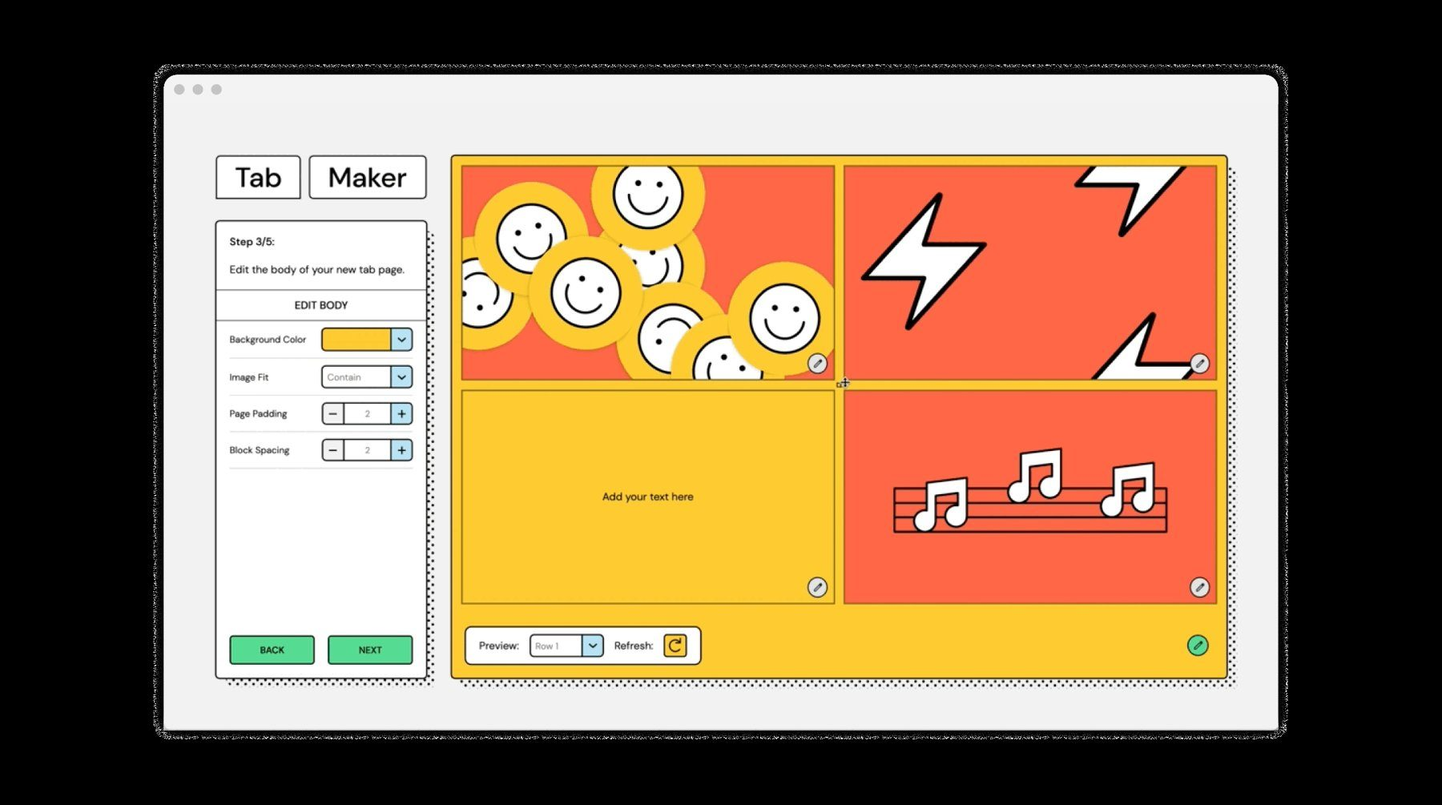
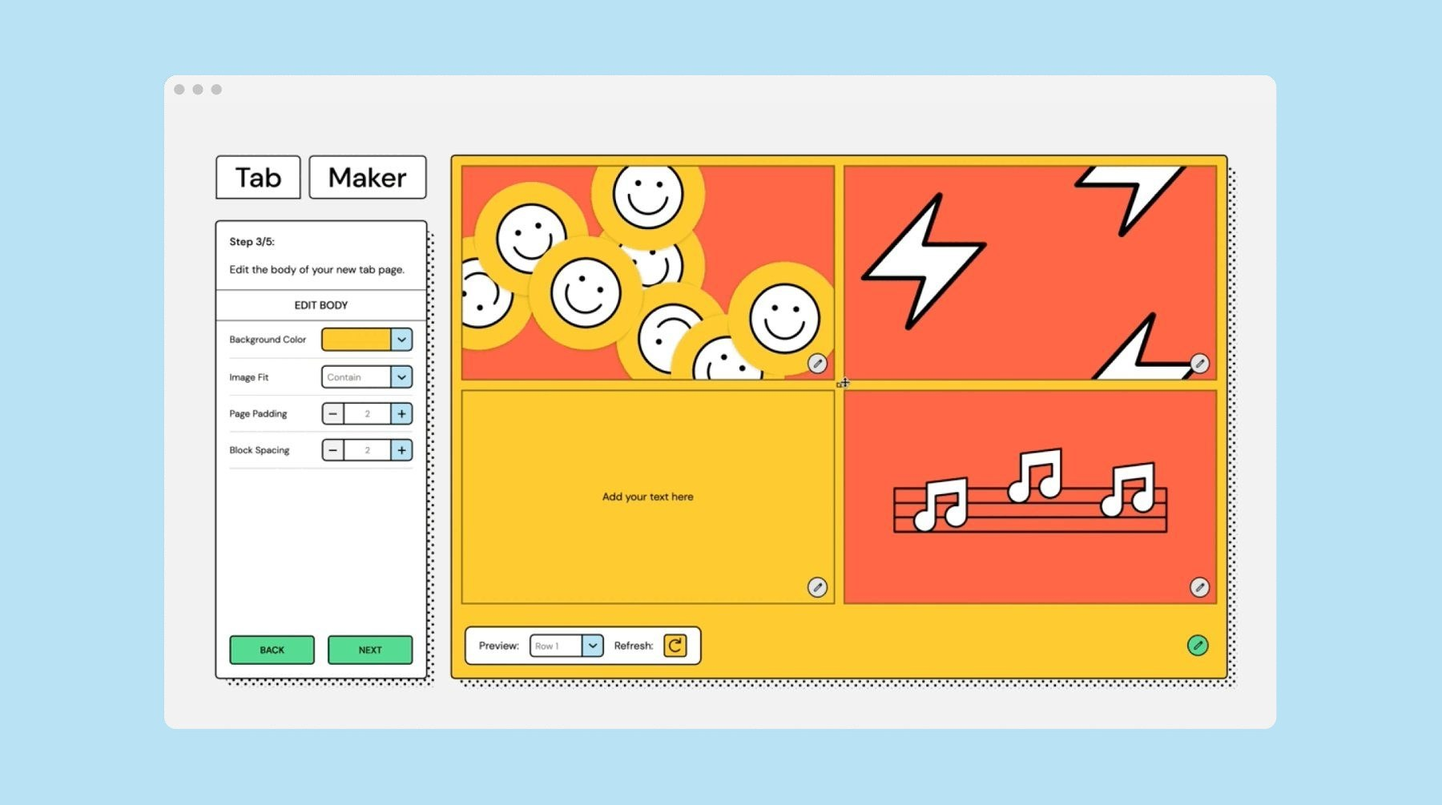
Add files via upload

diff --git a/assets/css/site.css b/assets/css/site.css
@@ -21,13 +21,21 @@ img{max-width:100%}
 .label{font-size:13px}
 .wrap{padding:0 var(--gutter)}
 
+/* ---------- Home: top bar (matches the project pages) ---------- */
+.topbar{display:flex;justify-content:space-between;align-items:center;gap:16px;padding-top:28px}
+.topbar .title{font-size:15px;font-weight:500;letter-spacing:.02em;text-transform:uppercase}
+.topbar .mid{font-size:11px}
+.caps-row{display:flex;gap:28px}
+
 /* ---------- Home: hero ---------- */
-.hero{position:relative;display:flex;flex-wrap:wrap;gap:24px 40px;align-items:flex-start;padding-top:32px;min-height:1020px}
-.hero h1{flex:1 1 560px;margin:0;max-width:1180px;font-size:clamp(34px,4.2vw,64px);font-weight:400;letter-spacing:-.025em;line-height:1.04}
-.hero .name{display:inline-block;vertical-align:.55em;margin-right:4.2em;font-size:13px;line-height:1.2;letter-spacing:0}
+.hero{position:relative;display:flex;flex-wrap:wrap;gap:24px 40px;align-items:flex-start;padding-top:56px;min-height:max(1000px,70vw)}
+.hero h1{flex:1 1 560px;margin:0;max-width:1180px;font-size:clamp(34px,4.4vw,150px);font-weight:400;letter-spacing:-.025em;line-height:1.04}
+@media (min-width:1100px){.hero h1{max-width:var(--stmt,75%)}}
+.ks{font-size:15px;font-weight:500;letter-spacing:.02em;text-decoration:none;color:var(--ink)}
+.hero .name{display:inline-block;vertical-align:.55em;margin-right:4.2em;font-size:clamp(13px,.9vw,20px);line-height:1.2;letter-spacing:0}
 .hero nav{flex:0 0 auto;display:flex;gap:20px;align-items:center;padding-top:12px}
 .dot{display:block;width:22px;height:22px;border-radius:50%;background:var(--ink)}
-.dot-link{display:flex;align-items:center;justify-content:center;width:44px;height:44px;margin:-11px}
+.dot-link{display:flex;align-items:center;justify-content:center;width:44px;height:44px;margin:-11px;align-self:center}
 .hero-meta{position:absolute;left:0;right:0;bottom:20px;z-index:3;display:flex;flex-wrap:wrap;justify-content:space-between;gap:12px;color:var(--muted)}
 .tidy{border-bottom:1px solid currentColor;min-height:24px}
 .tidy:hover{color:var(--ink)}
@@ -50,7 +58,7 @@ img{max-width:100%}
 .row .w{flex:0 0 200px;font-family:var(--serif);font-size:13px;color:var(--muted)}
 .row .y-m{display:none}
 .row .y{flex:0 0 48px;font-size:13px;color:var(--muted);text-align:right}
-.hover-print{position:fixed;left:0;top:0;width:220px;z-index:50;pointer-events:none;background:#FBFAF7;padding:8px;box-shadow:0 1px 2px rgba(40,32,20,.16),0 12px 26px rgba(40,32,20,.16);opacity:0;transition:opacity .15s ease}
+.hover-print{position:fixed;left:0;top:0;width:220px;z-index:50;pointer-events:none;box-shadow:0 1px 2px rgba(40,32,20,.16),0 12px 26px rgba(40,32,20,.18);opacity:0;transition:opacity .15s ease}
 .hover-print.on{opacity:1}
 .hover-print img{display:block;width:100%;aspect-ratio:4/5;object-fit:cover}
 
@@ -74,13 +82,20 @@ img{max-width:100%}
 /* ---------- Project page ---------- */
 body.project{height:100vh;height:100dvh;overflow:hidden}
 .p{position:relative;height:100vh;height:100dvh;display:flex;flex-direction:column;overflow:hidden}
-.p-head{display:flex;justify-content:space-between;align-items:baseline;gap:16px;padding:28px var(--gutter) 0}
-.p-head h1{margin:0;font-size:15px;font-weight:500;letter-spacing:.02em;text-transform:uppercase}
+.p-head{display:grid;grid-template-columns:1fr auto 1fr;align-items:baseline;gap:16px;padding:28px var(--gutter) 0}
+.p-head .info{justify-self:end}
+.p-head h1{margin:0;text-align:center;font-family:var(--serif);font-size:15px;font-weight:400;letter-spacing:0}
 .caps{font-size:12px;font-weight:500;letter-spacing:.04em;text-transform:uppercase;min-height:44px;display:inline-flex;align-items:center}
 .p-summary{display:none}
 .p-stage{flex:1 1 auto;min-height:0;display:flex;align-items:center;justify-content:center;padding:24px clamp(20px,6vw,120px);cursor:e-resize;width:100%}
 .p-stage img{display:none;max-width:100%;max-height:100%;object-fit:contain}
 .p-stage img.on{display:block}
+.p-stage{container-type:size}
+.p-stage .vid{display:none;width:min(100cqw,calc(100cqh * 16 / 9));aspect-ratio:16/9;background:#000;cursor:auto}
+.p-stage .vid.on{display:block}
+.p-stage .vid iframe{display:block;width:100%;height:100%;border:0}
+.single .p-nav,.single .p-dots{visibility:hidden}
+.single .p-stage{cursor:auto}
 .p-foot{display:flex;flex-wrap:wrap;justify-content:space-between;align-items:center;gap:12px 24px;padding:0 var(--gutter) 20px;font-family:var(--serif);font-size:11px}
 .p-foot .cap{flex:1 1 320px;color:var(--muted)}
 .p-nav{display:flex;gap:20px;align-items:center;font-variant-numeric:tabular-nums}
@@ -107,11 +122,12 @@ body.project{height:100vh;height:100dvh;overflow:hidden}
 /* ---------- Phones ---------- */
 @media (max-width:700px){
   .wrap{padding:0 20px}
-  .hero{display:block;padding-top:8px;min-height:860px}
-  .hero nav{position:absolute;top:8px;left:0;right:0;justify-content:space-between;padding-top:0}
-  .hero nav .links{display:flex;gap:20px}
-  .hero nav a{padding:12px 0}
-  .hero h1{padding-top:72px;font-size:30px;line-height:1.1}
+  .topbar{padding-top:8px;align-items:center}
+  .topbar .mid{display:none}
+  .topbar .title{font-size:13px}
+  .caps-row{gap:16px}
+  .hero{display:block;padding-top:32px;min-height:870px}
+  .hero h1{font-size:30px;line-height:1.1}
   .hero .name{vertical-align:.35em;margin-right:2.4em;font-size:12px}
   .hero-meta{flex-direction:column;gap:4px;bottom:20px}
   .objects{left:-20px;right:-20px;overflow:hidden}
@@ -133,8 +149,10 @@ body.project{height:100vh;height:100dvh;overflow:hidden}
   .colophon{flex-direction:column;gap:4px;margin-top:64px}
 
   .p-head{padding:8px 20px 0;align-items:center}
-  .p-head h1,.p-head .info{display:none}
-  .p-head .back-m{display:inline-flex}
+  .p-head{grid-template-columns:auto 1fr}
+  .p-head h1{display:none}
+  .p-head .info{display:none}
+  .ks{font-size:13px}
   .p-summary{display:block;padding:16px 20px 0}
   .p-summary .t{margin:0;font-size:34px;font-weight:500;letter-spacing:-.03em;line-height:1}
   .p-summary p{margin:10px 0 0;font-size:13px;line-height:1.45;color:var(--ink-2)}

diff --git a/tab-maker/index.html b/tab-maker/index.html
@@ -17,19 +17,18 @@
 <body class="project">
 <div class="p" style="--panel:#D9D6CF">
 <header class="p-head">
-<a class="caps back-m" href="../#work">← Back</a>
+<a class="ks" href="../" aria-label="Kate Strudwick, home">K.S.</a>
 <h1>Tab Maker</h1>
-<span class="detail muted" style="font-size:11px">Project 07 of 09</span>
 <button type="button" class="caps info" data-toggle-panel data-label="Info +" aria-expanded="false" aria-controls="panel">Info +</button>
 </header>
 <div class="p-summary"><p class="t">Tab Maker</p><p>A no-code tool for building Chrome new-tab extensions from a Google Sheet.</p></div>
-<button type="button" class="p-stage" aria-label="Next image"><img src="../assets/img/tab-maker/01.gif" alt="A new tab page showing an illustrated portrait by a creative of colour" data-caption="The original extension: work by creatives of colour on every new tab." width=1600 height=900><img src="../assets/img/tab-maker/02.gif" alt="Animated tour of the Tab Maker website" data-caption="The Tab Maker website." loading="lazy"><img src="../assets/img/tab-maker/03.jpg" alt="The no-code editor with a template preview" data-caption="The no-code editor: choose a template, link a Google Sheet." loading="lazy"><img src="../assets/img/tab-maker/04.gif" alt="The launch page with the Tab Maker film" data-caption="The launch page and film." loading="lazy"><img src="../assets/img/tab-maker/05.jpg" alt="MoMA new tab page showing a Mondrian painting" data-caption="MoMA’s new tab extension, built with Tab Maker." loading="lazy"><img src="../assets/img/tab-maker/06.jpg" alt="Extensions made with Tab Maker by MoMA and others" data-caption="Observing people using Tab Maker." loading="lazy"><img src="../assets/img/tab-maker/07.jpg" alt="Three persona cards: the recruiter, the advocate and the creative" data-caption="Personas: the recruiter, the advocate and the creative." loading="lazy"><img src="../assets/img/tab-maker/08.jpg" alt="Flow diagram comparing the process before and after Tab Maker" data-caption="Before and after: removing the need to code." loading="lazy"><img src="../assets/img/tab-maker/09.jpg" alt="Two new tabs made from templates, one in Spanish" data-caption="Templates in use, in any language." loading="lazy"><img src="../assets/img/tab-maker/10.jpg" alt="Collage of research notes and early ideas" data-caption="Behind the scenes: research and early ideas." loading="lazy"></button>
+<div class="p-stage" aria-label="Gallery"><div class="vid" data-caption="The Tab Maker film."><iframe data-src="https://www.youtube-nocookie.com/embed/NWKOkf_JkEI?rel=0&amp;modestbranding=1" title="Tab Maker film (YouTube)" allow="autoplay; fullscreen; picture-in-picture; encrypted-media" allowfullscreen></iframe></div><img src="../assets/img/tab-maker/01.gif" alt="A new tab page showing an illustrated portrait by a creative of colour" data-caption="The original extension: work by creatives of colour on every new tab." width=1600 height=900><img src="../assets/img/tab-maker/02.gif" alt="Animated tour of the Tab Maker website" data-caption="The Tab Maker website." loading="lazy"><img src="../assets/img/tab-maker/03.jpg" alt="The no-code editor with a template preview" data-caption="The no-code editor: choose a template, link a Google Sheet." loading="lazy"><img src="../assets/img/tab-maker/04.gif" alt="The launch page with the Tab Maker film" data-caption="The launch page and film." loading="lazy"><img src="../assets/img/tab-maker/05.jpg" alt="MoMA new tab page showing a Mondrian painting" data-caption="MoMA’s new tab extension, built with Tab Maker." loading="lazy"><img src="../assets/img/tab-maker/06.jpg" alt="Extensions made with Tab Maker by MoMA and others" data-caption="Observing people using Tab Maker." loading="lazy"><img src="../assets/img/tab-maker/07.jpg" alt="Three persona cards: the recruiter, the advocate and the creative" data-caption="Personas: the recruiter, the advocate and the creative." loading="lazy"><img src="../assets/img/tab-maker/08.jpg" alt="Flow diagram comparing the process before and after Tab Maker" data-caption="Before and after: removing the need to code." loading="lazy"><img src="../assets/img/tab-maker/09.jpg" alt="Two new tabs made from templates, one in Spanish" data-caption="Templates in use, in any language." loading="lazy"><img src="../assets/img/tab-maker/10.jpg" alt="Collage of research notes and early ideas" data-caption="Behind the scenes: research and early ideas." loading="lazy"></div>
 <div class="p-foot">
 <a class="caps back" href="../#work">Back</a>
 <span class="cap" aria-live="polite"></span>
 <div class="p-nav"><button type="button" class="prev" aria-label="Previous image">←</button><span class="count"></span><button type="button" class="nextimg" aria-label="Next image">→</button></div>
 </div>
-<div class="p-dots" aria-hidden="true"><span></span><span></span><span></span><span></span><span></span><span></span><span></span><span></span><span></span><span></span></div>
+<div class="p-dots" aria-hidden="true"><span></span><span></span><span></span><span></span><span></span><span></span><span></span><span></span><span></span><span></span><span></span></div>
 <button type="button" class="p-about" data-toggle-panel aria-expanded="false" aria-controls="panel"><span>About this project</span><span>+</span></button>
 <div class="scrim" aria-hidden="true"></div>
 <aside class="p-panel" id="panel" aria-hidden="true" aria-label="About Tab Maker">

diff --git a/assets/js/site.js b/assets/js/site.js
@@ -9,11 +9,12 @@
     var top = objs.length;
     var place = function () {
       var key = phone.matches ? 'mob' : 'desk';
+      var k = phone.matches ? 1 : Math.max(1, layer.offsetWidth / 1370); // grow with very wide screens
       objs.forEach(function (el, i) {
         var p = el.dataset[key].split(',').map(Number); // x%, y px, width px, rotation deg
         el.style.left = p[0] + '%';
-        el.style.top = p[1] + 'px';
-        el.style.width = phone.matches ? p[2] + 'px' : 'clamp(' + Math.round(p[2] * 0.6) + 'px, ' + (p[2] / 14.4).toFixed(2) + 'vw, ' + p[2] + 'px)';
+        el.style.top = Math.round(p[1] * k) + 'px';
+        el.style.width = phone.matches ? p[2] + 'px' : 'clamp(' + Math.round(p[2] * 0.6) + 'px, ' + (p[2] / 14.4).toFixed(2) + 'vw, ' + Math.round(p[2] * 1.9) + 'px)';
         el.style.zIndex = i + 1;
         el.querySelector('img').style.rotate = p[3] + 'deg';
         el.style.setProperty('--delay', (120 + i * 110) + 'ms');
@@ -21,6 +22,7 @@
     };
     place();
     if (phone.addEventListener) phone.addEventListener('change', place);
+    var rt; window.addEventListener('resize', function () { clearTimeout(rt); rt = setTimeout(place, 200); });
     var tidy = document.querySelector('.tidy');
     if (tidy) tidy.addEventListener('click', place);
 
@@ -74,7 +76,7 @@
   /* ---------- Project page: gallery + info panel ---------- */
   var p = document.querySelector('.p');
   if (p) {
-    var imgs = Array.prototype.slice.call(p.querySelectorAll('.p-stage img'));
+    var imgs = Array.prototype.slice.call(p.querySelectorAll('.p-stage > img, .p-stage > .vid'));
     var cap = p.querySelector('.cap');
     var count = p.querySelector('.count');
     var dots = Array.prototype.slice.call(p.querySelectorAll('.p-dots span'));
@@ -82,16 +84,21 @@
     var pad = function (x) { return (x < 10 ? '0' : '') + x; };
     var show = function (k) {
       i = (k + n) % n;
-      imgs.forEach(function (im, j) { im.classList.toggle('on', j === i); });
+      imgs.forEach(function (im, j) {
+        im.classList.toggle('on', j === i);
+        var fr = im.querySelector && im.querySelector('iframe');
+        if (fr) { if (j === i) { if (!fr.src) fr.src = fr.dataset.src; } else if (fr.src) { fr.removeAttribute('src'); } } // load when shown, stop when leaving
+      });
       dots.forEach(function (dt, j) { dt.classList.toggle('on', j === i); });
       cap.textContent = 'Fig. ' + pad(i + 1) + ': ' + imgs[i].dataset.caption;
       if (count) count.textContent = pad(i + 1) + ' / ' + pad(n);
       var nxt = imgs[(i + 1) % n]; if (nxt.loading === 'lazy') nxt.loading = 'eager';
+      if (n < 2) p.classList.add('single');
     };
     show(0);
     var stage = p.querySelector('.p-stage');
     var swiped = false;
-    stage.addEventListener('click', function () { if (!swiped) show(i + 1); swiped = false; });
+    stage.addEventListener('click', function (e) { if (e.target.closest('.vid')) return; if (!swiped) show(i + 1); swiped = false; });
     p.querySelector('.prev').addEventListener('click', function () { show(i - 1); });
     p.querySelector('.nextimg').addEventListener('click', function () { show(i + 1); });
     var tx = null;
@@ -125,4 +132,16 @@
       else if (e.key === 'Escape') setOpen(false);
     });
   }
+})();
+
+// Statement ends where the "Work" link starts
+(function () {
+  var w = document.getElementById('nav-work'), h = document.querySelector('.hero h1');
+  if (!w || !h) return;
+  function fit() {
+    var r = w.getBoundingClientRect().left - h.getBoundingClientRect().left;
+    h.style.setProperty('--stmt', Math.round(r) + 'px');
+  }
+  fit(); window.addEventListener('resize', fit);
+  if (document.fonts && document.fonts.ready) document.fonts.ready.then(fit);
 })();

diff --git a/cellul-air/index.html b/cellul-air/index.html
@@ -17,19 +17,18 @@
 <body class="project">
 <div class="p" style="--panel:#D3D9D4">
 <header class="p-head">
-<a class="caps back-m" href="../#work">← Back</a>
+<a class="ks" href="../" aria-label="Kate Strudwick, home">K.S.</a>
 <h1>Cellul—air</h1>
-<span class="detail muted" style="font-size:11px">Project 04 of 09</span>
 <button type="button" class="caps info" data-toggle-panel data-label="Info +" aria-expanded="false" aria-controls="panel">Info +</button>
 </header>
 <div class="p-summary"><p class="t">Cellul—air</p><p>Air-purifying bacteria brought out into public space.</p></div>
-<button type="button" class="p-stage" aria-label="Next image"><img src="../assets/img/cellul-air/01.jpg" alt="Cellul—air modules installed along a London Underground tunnel" data-caption="Future vision: modules lining a Bakerloo line passage." width=1400 height=921><img src="../assets/img/cellul-air/02.jpg" alt="Close-up of glowing bacteria-filled dishes" data-caption="Living modules, lit from behind." loading="lazy"><img src="../assets/img/cellul-air/03.jpg" alt="A visitor examining the modules at an exhibition" data-caption="On show, inviting a closer look at the air we breathe." loading="lazy"><img src="../assets/img/cellul-air/04.jpg" alt="Kate holding a petri dish of bacteria in the lab" data-caption="Growing air-purifying bacteria in the lab." loading="lazy"><img src="../assets/img/cellul-air/05.jpg" alt="Cluster of purple modules in a concrete gallery stairwell" data-caption="Future vision: a cluster in a public stairwell." loading="lazy"></button>
+<div class="p-stage" aria-label="Gallery"><div class="vid" data-caption="The Cellul—air film."><iframe data-src="https://player.vimeo.com/video/312257176?dnt=1&amp;title=0&amp;byline=0&amp;portrait=0" title="Cellul—air film (Vimeo)" allow="autoplay; fullscreen; picture-in-picture; encrypted-media" allowfullscreen></iframe></div><img src="../assets/img/cellul-air/01.jpg" alt="Cellul—air modules installed along a London Underground tunnel" data-caption="Future vision: modules lining a Bakerloo line passage." width=1400 height=921><img src="../assets/img/cellul-air/02.jpg" alt="Close-up of glowing bacteria-filled dishes" data-caption="Living modules, lit from behind." loading="lazy"><img src="../assets/img/cellul-air/03.jpg" alt="A visitor examining the modules at an exhibition" data-caption="On show, inviting a closer look at the air we breathe." loading="lazy"><img src="../assets/img/cellul-air/04.jpg" alt="Kate holding a petri dish of bacteria in the lab" data-caption="Growing air-purifying bacteria in the lab." loading="lazy"><img src="../assets/img/cellul-air/05.jpg" alt="Cluster of purple modules in a concrete gallery stairwell" data-caption="Future vision: a cluster in a public stairwell." loading="lazy"></div>
 <div class="p-foot">
 <a class="caps back" href="../#work">Back</a>
 <span class="cap" aria-live="polite"></span>
 <div class="p-nav"><button type="button" class="prev" aria-label="Previous image">←</button><span class="count"></span><button type="button" class="nextimg" aria-label="Next image">→</button></div>
 </div>
-<div class="p-dots" aria-hidden="true"><span></span><span></span><span></span><span></span><span></span></div>
+<div class="p-dots" aria-hidden="true"><span></span><span></span><span></span><span></span><span></span><span></span></div>
 <button type="button" class="p-about" data-toggle-panel aria-expanded="false" aria-controls="panel"><span>About this project</span><span>+</span></button>
 <div class="scrim" aria-hidden="true"></div>
 <aside class="p-panel" id="panel" aria-hidden="true" aria-label="About Cellul—air">

diff --git a/the-common-lab/index.html b/the-common-lab/index.html
@@ -17,19 +17,18 @@
 <body class="project">
 <div class="p" style="--panel:#ECD8CB">
 <header class="p-head">
-<a class="caps back-m" href="../#work">← Back</a>
+<a class="ks" href="../" aria-label="Kate Strudwick, home">K.S.</a>
 <h1>The Common Lab</h1>
-<span class="detail muted" style="font-size:11px">Project 02 of 09</span>
 <button type="button" class="caps info" data-toggle-panel data-label="Info +" aria-expanded="false" aria-controls="panel">Info +</button>
 </header>
 <div class="p-summary"><p class="t">The Common Lab</p><p>A volunteer design studio offering free creative help for the common good.</p></div>
-<button type="button" class="p-stage" aria-label="Next image"><img src="../assets/img/the-common-lab/01.jpg" alt="The Common Lab homepage on a laptop in a softly lit room" data-caption="The Common Lab homepage: free creative help for the common good." width=1200 height=1500><img src="../assets/img/the-common-lab/02.jpg" alt="The Common Lab homepage on a laptop resting on a white floor" data-caption="A single hand-coded page, hosted on GitHub Pages." loading="lazy"><img src="../assets/img/the-common-lab/03.jpg" alt="Screenshot of The Common Lab homepage" data-caption="The wordmark, tagline and “say hi” envelope." loading="lazy"></button>
+<button type="button" class="p-stage" aria-label="Next image"><img src="../assets/img/the-common-lab/01.jpg" alt="The Common Lab homepage on a laptop in a softly lit room" data-caption="The Common Lab homepage: free creative help for the common good." width=1200 height=1500></button>
 <div class="p-foot">
 <a class="caps back" href="../#work">Back</a>
 <span class="cap" aria-live="polite"></span>
 <div class="p-nav"><button type="button" class="prev" aria-label="Previous image">←</button><span class="count"></span><button type="button" class="nextimg" aria-label="Next image">→</button></div>
 </div>
-<div class="p-dots" aria-hidden="true"><span></span><span></span><span></span></div>
+<div class="p-dots" aria-hidden="true"><span></span></div>
 <button type="button" class="p-about" data-toggle-panel aria-expanded="false" aria-controls="panel"><span>About this project</span><span>+</span></button>
 <div class="scrim" aria-hidden="true"></div>
 <aside class="p-panel" id="panel" aria-hidden="true" aria-label="About The Common Lab">

diff --git a/index.html b/index.html
@@ -17,9 +17,13 @@
 <body>
 <a class="skip" href="#work">Skip to work</a>
 <div class="wrap">
-<header class="hero">
+<header class="topbar">
+<a class="ks" href="./" aria-label="Kate Strudwick, home">K.S.</a>
+<span class="detail muted mid">Portfolio, Ed. 2026</span>
+<nav class="caps-row" aria-label="Main"><a class="caps" id="nav-work" href="#work">Work</a><a class="caps" href="#about">About</a><a class="caps" href="mailto:kate.j.strudwick@gmail.com">Contact</a></nav>
+</header>
+<section class="hero" aria-label="Introduction">
 <h1><span class="name">Kate<br>Strudwick</span>Designer working where technology meets human problems, from operating theatres and evidence lockers to AI products at Google. Careful research, physical prototypes, clear ideas.</h1>
-<nav class="detail" aria-label="Main"><span class="links"><a href="#work">Work</a> <a href="#about">About</a></span><a class="dot-link" href="mailto:kate.j.strudwick@gmail.com" aria-label="Email Kate"><span class="dot"></span></a></nav>
 <div class="objects" aria-label="A few things I love. Drag them around.">
 <div class="obj" data-desk="22.3,440,190,-12" data-mob="18.1,468,85,-12" title="The Sun tarot card"><img src="assets/objects/object-1.png" alt="The Sun tarot card" draggable="false"></div>
 <div class="obj" data-desk="34.3,376,240,8" data-mob="39.0,439,105,8" title="A red swimming costume"><img src="assets/objects/object-2.png" alt="A red swimming costume" draggable="false"></div>
@@ -32,7 +36,7 @@
 <span>A few things I love. Move them around, or <button type="button" class="tidy">tidy up</button></span>
 <span>San Francisco / London</span>
 </div>
-</header>
+</section>
 
 <main>
 <section id="work" class="work" aria-labelledby="work-h">

diff --git a/cardiac-stimulator/index.html b/cardiac-stimulator/index.html
@@ -17,9 +17,8 @@
 <body class="project">
 <div class="p" style="--panel:#E0D7D3">
 <header class="p-head">
-<a class="caps back-m" href="../#work">← Back</a>
+<a class="ks" href="../" aria-label="Kate Strudwick, home">K.S.</a>
 <h1>Cardiac Stimulator</h1>
-<span class="detail muted" style="font-size:11px">Project 09 of 09</span>
 <button type="button" class="caps info" data-toggle-panel data-label="Info +" aria-expanded="false" aria-controls="panel">Info +</button>
 </header>
 <div class="p-summary"><p class="t">Cardiac Stimulator</p><p>Simplifying how surgeons control cardiac ablation equipment.</p></div>

diff --git a/frida-kahlo/index.html b/frida-kahlo/index.html
@@ -17,9 +17,8 @@
 <body class="project">
 <div class="p" style="--panel:#D2D5DE">
 <header class="p-head">
-<a class="caps back-m" href="../#work">← Back</a>
+<a class="ks" href="../" aria-label="Kate Strudwick, home">K.S.</a>
 <h1>Frida Kahlo</h1>
-<span class="detail muted" style="font-size:11px">Project 06 of 09</span>
 <button type="button" class="caps info" data-toggle-panel data-label="Info +" aria-expanded="false" aria-controls="panel">Info +</button>
 </header>
 <div class="p-summary"><p class="t">Frida Kahlo</p><p>Angled exhibition graphics for Making Her Self Up at the V&amp;A.</p></div>

diff --git a/for-form/index.html b/for-form/index.html
@@ -17,9 +17,8 @@
 <body class="project">
 <div class="p" style="--panel:#D6D9E0">
 <header class="p-head">
-<a class="caps back-m" href="../#work">← Back</a>
+<a class="ks" href="../" aria-label="Kate Strudwick, home">K.S.</a>
 <h1>For.Form</h1>
-<span class="detail muted" style="font-size:11px">Project 03 of 09</span>
 <button type="button" class="caps info" data-toggle-panel data-label="Info +" aria-expanded="false" aria-controls="panel">Info +</button>
 </header>
 <div class="p-summary"><p class="t">For.Form</p><p>Rethinking how detectives package and track forensic evidence.</p></div>

diff --git a/the-cleanies/index.html b/the-cleanies/index.html
@@ -17,9 +17,8 @@
 <body class="project">
 <div class="p" style="--panel:#D5DFDA">
 <header class="p-head">
-<a class="caps back-m" href="../#work">← Back</a>
+<a class="ks" href="../" aria-label="Kate Strudwick, home">K.S.</a>
 <h1>The Cleanies</h1>
-<span class="detail muted" style="font-size:11px">Project 08 of 09</span>
 <button type="button" class="caps info" data-toggle-panel data-label="Info +" aria-expanded="false" aria-controls="panel">Info +</button>
 </header>
 <div class="p-summary"><p class="t">The Cleanies</p><p>A paintable, colour-changing hand sanitiser for kids.</p></div>

diff --git a/memory-chip/index.html b/memory-chip/index.html
@@ -17,9 +17,8 @@
 <body class="project">
 <div class="p" style="--panel:#DCD3C4">
 <header class="p-head">
-<a class="caps back-m" href="../#work">← Back</a>
+<a class="ks" href="../" aria-label="Kate Strudwick, home">K.S.</a>
 <h1>Memory Chip</h1>
-<span class="detail muted" style="font-size:11px">Project 05 of 09</span>
 <button type="button" class="caps info" data-toggle-panel data-label="Info +" aria-expanded="false" aria-controls="panel">Info +</button>
 </header>
 <div class="p-summary"><p class="t">Memory Chip</p><p>An indestructible data chip made from cremation ashes.</p></div>

diff --git a/runmix/index.html b/runmix/index.html
@@ -17,9 +17,8 @@
 <body class="project">
 <div class="p" style="--panel:#DCD6EA">
 <header class="p-head">
-<a class="caps back-m" href="../#work">← Back</a>
+<a class="ks" href="../" aria-label="Kate Strudwick, home">K.S.</a>
 <h1>RunMix</h1>
-<span class="detail muted" style="font-size:11px">Project 01 of 09</span>
 <button type="button" class="caps info" data-toggle-panel data-label="Info +" aria-expanded="false" aria-controls="panel">Info +</button>
 </header>
 <div class="p-summary"><p class="t">RunMix</p><p>Tempo-based running playlists where your speed is the DJ.</p></div>
